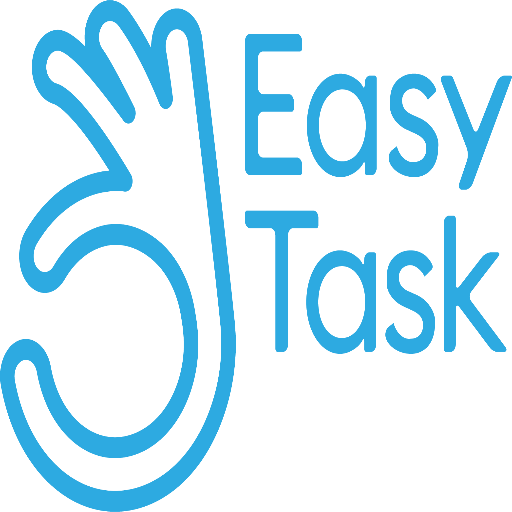
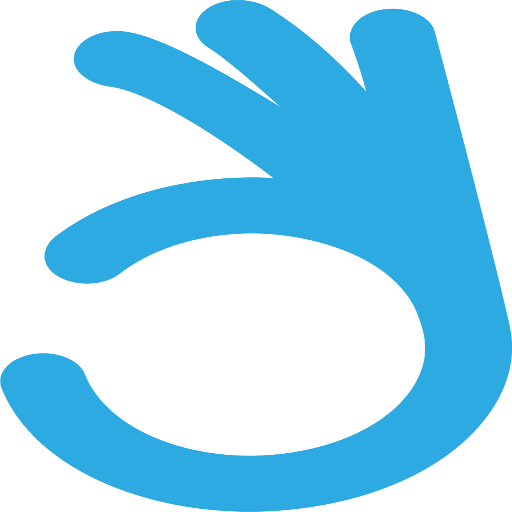
Roey

diff --git a/frontend/src/cmps/Header.jsx b/frontend/src/cmps/Header.jsx
@@ -14,7 +14,6 @@ class _Header extends Component {
             <header className="main-header">
                 <Link className='home-link-header' to="/"><HomeOutlinedIcon /></Link>
                 <Link className='boards-link-header' to="/board">Boards</Link>
-                {/* <Link className='logo-header' to="/">EasyTask</Link> */}
                 <Link className='logo-header' to="/"><img className="logo-header-img" src={Logo1}/></Link>
                 {(loggedInUser) ? <Link className='login-link-header' to="/login"> <Avatar className='logged-in-user-avatar' key={loggedInUser._id} src={loggedInUser.imgUrl}>{(!loggedInUser.imgUrl) && utilService.getNameInitials(loggedInUser.fullname)}</Avatar> {loggedInUser.fullname} </Link>
                     : <Link className='login-link-header' to="/login">Login</Link>}

diff --git a/frontend/src/pages/Home.jsx b/frontend/src/pages/Home.jsx
@@ -1,12 +1,15 @@
 import { Component } from 'react'
 import { Link } from 'react-router-dom'
+import Logo3 from '../assets/imgs/logo3.png'
+import Logo4 from '../assets/imgs/logo4.png'
 
 export class Home extends Component {
     render() {
         return (
             <div className="home">
                 <div className="home-txt-container">
-                    <h1 className="home-title">EasyTask</h1>
+                    {/* <h1 className="home-title">EasyTask</h1> */}
+                    <img className="logo-home" src={Logo4}/>
                     <h3 className="home-txt">
                     EasyTask is your new partner who will help you all throughout your project.
                         From planning, through working and eventually finishing your project.

diff --git a/frontend/src/assets/styles/pages/_Home.scss b/frontend/src/assets/styles/pages/_Home.scss
@@ -66,3 +66,7 @@
     position:relative;
 	top:rem(1px);
 }
+
+.logo-home{
+    width: rem(400px)
+}
